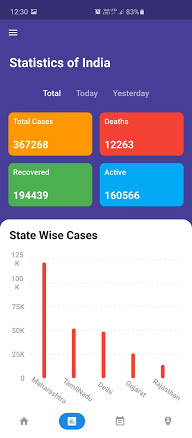
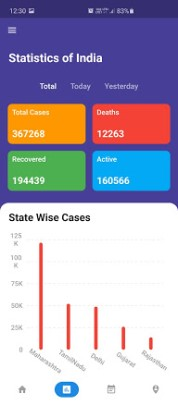
Fix: Resposive Screenshots

diff --git a/README.md b/README.md
@@ -9,7 +9,7 @@ Download the latest APK from [here](https://github.com/VasanthKumar14/PREVAIL-AP
 
 <td align="center"><a href="https://github.com/VasanthKumar14/PREVAIL-APP/releases/download/v1.0.0%2B1/app-release.apk"><img src="./images/get it on github.png" alt="Get it on Github" height="68"></a></td> <br/>
 
-|            Home Screen            |          Dashboard           |           Get Help           |          Join to Help          |
+|            Home Screen            |            Stats             |           Get Help           |          Join to Help          |
 | :-------------------------------: | :--------------------------: | :--------------------------: | :----------------------------: |
 | ![image](./images/homescreen.jpg) | ![image](./images/stats.jpg) | ![image](images/getHelp.jpg) | ![image](./images/joinNow.jpg) |
 
